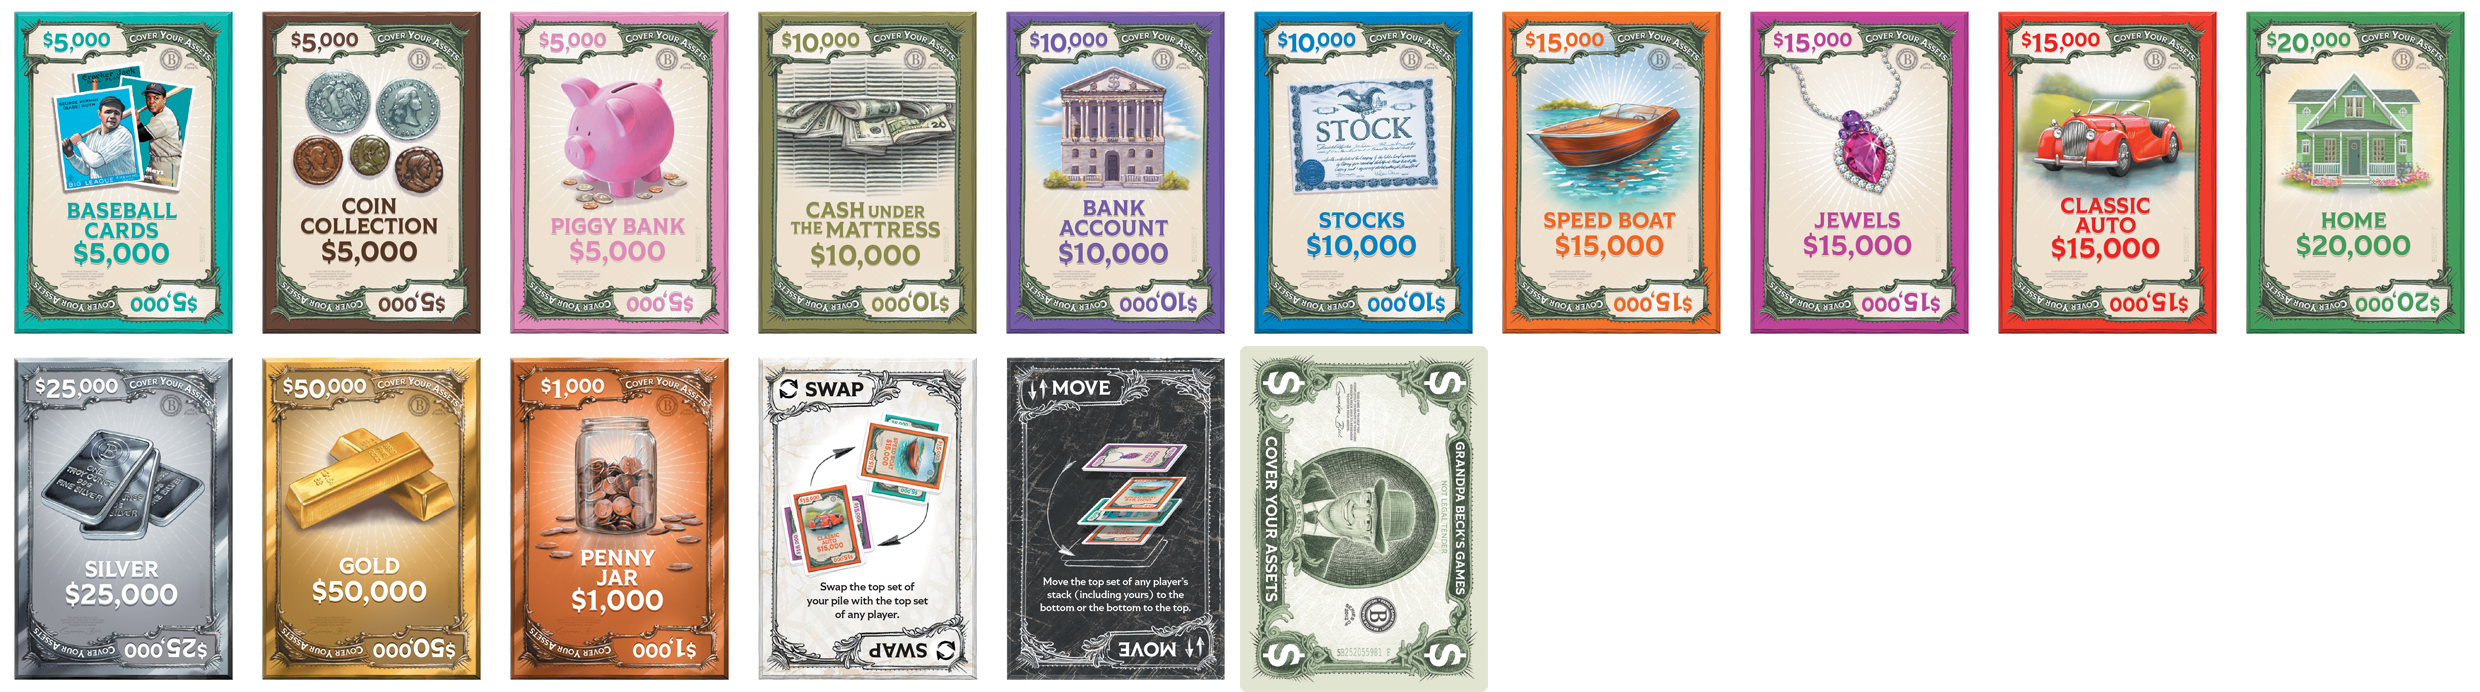
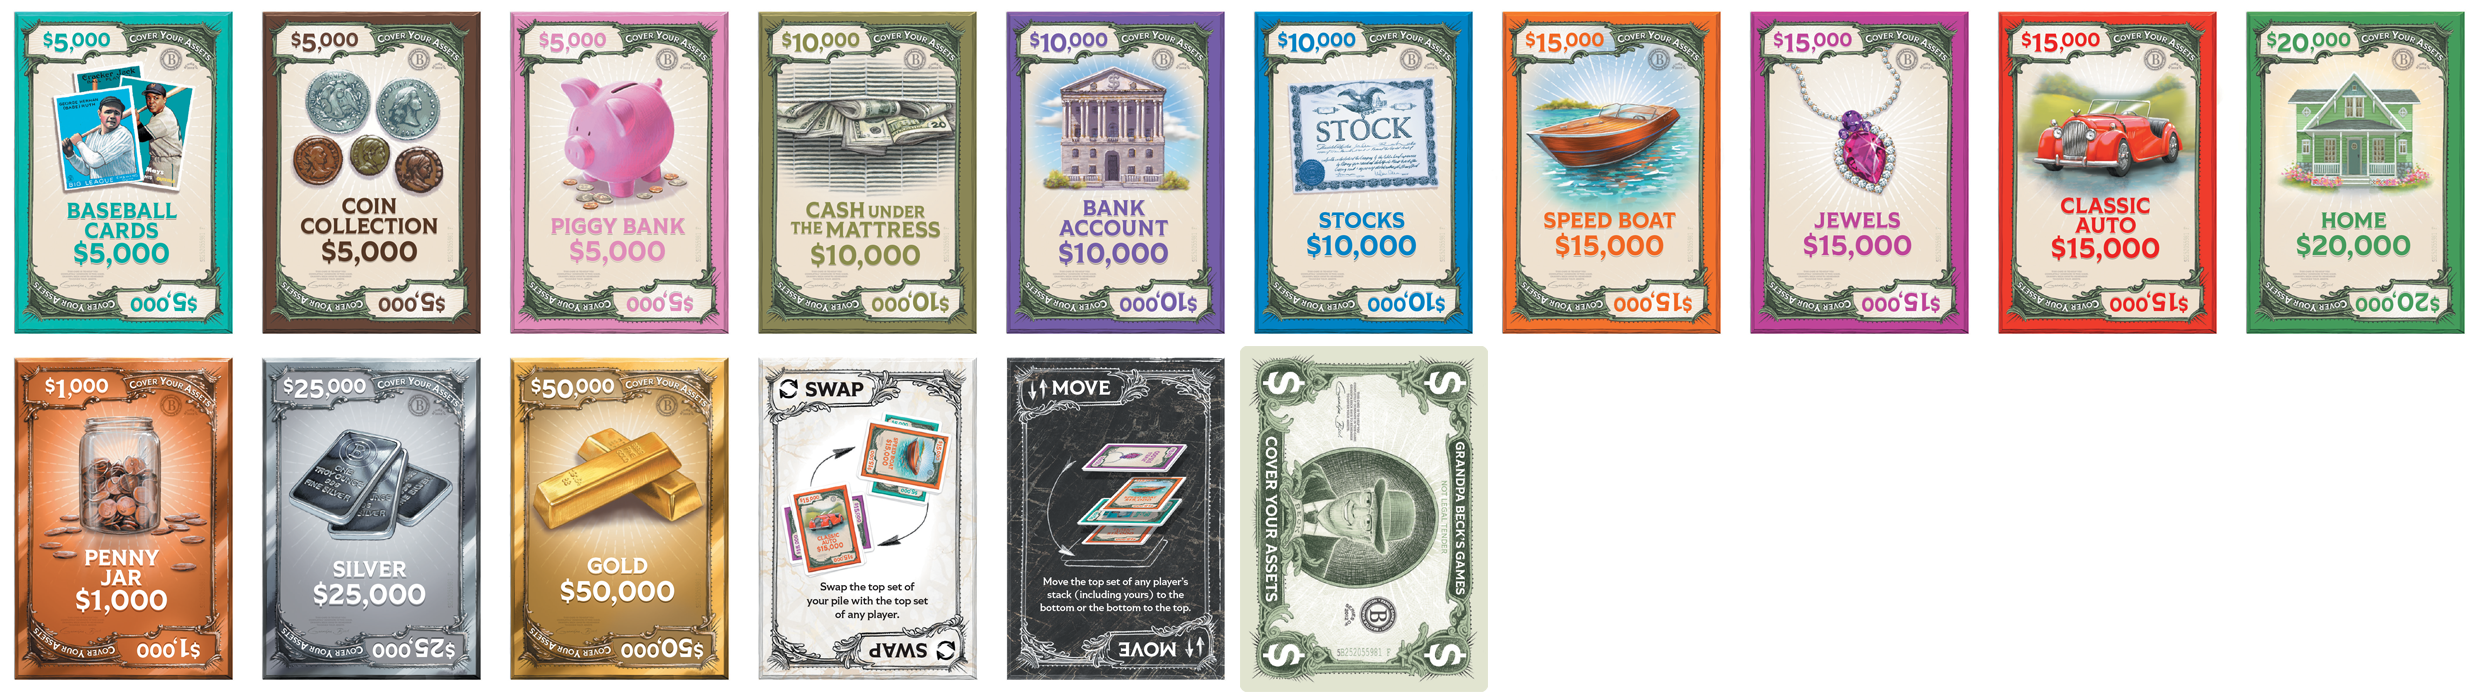
commit

Changed region(s): [[0.0, 0.5159, 0.3105, 1.0]]

diff --git a/modules/js/Game.js b/modules/js/Game.js
@@ -537,12 +537,12 @@ export class Game {
           const id2 = ids[1].split("_");
           const type1 = this.all_cards[id1[3]].type;  
           const type2 = this.all_cards[id2[3]].type;
-          if((type1 <= 10)&&(type2 <= 10)&&(type1 == type2))
+          if((type1 <= 11)&&(type2 <= 11)&&(type1 == type2))
           {
             btn.disabled = false;
           }
 
-          else if ((type1 <= 10 && type2 == 11)||(type1 <= 10 && type2 == 12)||(type2 <= 10 && type1 == 11)||(type2 <= 10 && type1 == 12))
+          else if ((type1 <= 11 && type2 == 12)||(type1 <= 11 && type2 == 13)||(type2 <= 11 && type1 == 12)||(type2 <= 11 && type1 == 13))
           {
             btn.disabled = false;
           }

diff --git a/modules/php/PendingAdvanced.php b/modules/php/PendingAdvanced.php
@@ -42,12 +42,12 @@ trait PendingAdvancedTrait  // ATTENTION
             foreach ($handCards as $card) {
                 $ret["selectablemulti"][] = 'my_cards_item_' . $card['id'];
                 $type = (int) $card['type'];
-                if ($type >= 1 && $type <= 10) {
+                if ($type >= 1 && $type <= 11) {
                     if (!isset($assetCounts[$type])) {
                         $assetCounts[$type] = 0;
                     }
                     $assetCounts[$type]++;
-                } else if ($type === 11 || $type === 12) {
+                } else if ($type === 12 || $type === 13) {
                     $jokerCount++;
                 }
             }
@@ -105,7 +105,7 @@ trait PendingAdvancedTrait  // ATTENTION
 
                                 foreach ($handCards as $card) {
                                     $type = (int) $card['type'];
-                                    if ($type == $type_last_set || $type === 11 || $type === 12) {
+                                    if ($type == $type_last_set || $type == 12 || $type == 13) {
                                         $possible_challenge = 1;
                                     } 
                                 }
@@ -501,7 +501,7 @@ trait PendingAdvancedTrait  // ATTENTION
                     }
 
                 }
-                
+
                 $g->setGameStateValue("attaquant", 0);
                 $g->setGameStateValue("defenseur", 0);
                 $g->setGameStateValue("challenge", 0);
@@ -732,7 +732,7 @@ trait PendingAdvancedTrait  // ATTENTION
 
                         foreach ($handCards as $card) {
                             $type = (int) $card['type'];
-                            if ($type == $type_last_set || $type === 11 || $type === 12) {
+                            if ($type == $type_last_set || $type == 12 || $type == 13) {
                                 if (!in_array($player, $players_challenge))
                                 {
                                     $players_challenge[] = $player;
@@ -820,7 +820,7 @@ trait PendingAdvancedTrait  // ATTENTION
                 $ret["selectable"][] = 'my_cards_item_'.$handCard['id'];
             }
 
-            if($handCard['type'] == 11 || $handCard['type'] == 12)
+            if($handCard['type'] == 12 || $handCard['type'] == 13)
             {
                 $ret["selectable"][] = 'my_cards_item_'.$handCard['id'];
             }
@@ -939,7 +939,7 @@ trait PendingAdvancedTrait  // ATTENTION
                 $ret["selectable"][] = 'my_cards_item_'.$handCard['id'];
             }
 
-            if($handCard['type'] == 11 || $handCard['type'] == 12)
+            if($handCard['type'] == 12 || $handCard['type'] == 13)
             {
                 $ret["selectable"][] = 'my_cards_item_'.$handCard['id'];
             }

diff --git a/modules/php/Pending.php b/modules/php/Pending.php
@@ -136,12 +136,12 @@ class Pending extends Game
             foreach ($handCards as $card) {
                 $ret["selectablemulti"][] = 'my_cards_item_' . $card['id'];
                 $type = (int) $card['type'];
-                if ($type >= 1 && $type <= 10) {
+                if ($type >= 1 && $type <= 11) {
                     if (!isset($assetCounts[$type])) {
                         $assetCounts[$type] = 0;
                     }
                     $assetCounts[$type]++;
-                } else if ($type === 11 || $type === 12) {
+                } else if ($type == 12 || $type == 13) {
                     $jokerCount++;
                 }
             }
@@ -197,7 +197,7 @@ class Pending extends Game
 
                             foreach ($handCards as $card) {
                                 $type = (int) $card['type'];
-                                if ($type == $type_last_set || $type === 11 || $type === 12) {
+                                if ($type == $type_last_set || $type == 12 || $type == 13) {
                                     $possible_challenge = 1;
                                 } 
                             }
@@ -421,7 +421,7 @@ class Pending extends Game
 
                     foreach ($handCards as $card) {
                         $type = (int) $card['type'];
-                        if ($type == $type_last_set || $type === 11 || $type === 12) {
+                        if ($type == $type_last_set || $type == 12 || $type == 13) {
                             if (!in_array($player, $players_challenge))
                             {
                                 $players_challenge[] = $player;
@@ -508,7 +508,7 @@ class Pending extends Game
                 $ret["selectable"][] = 'my_cards_item_'.$handCard['id'];
             }
 
-            if($handCard['type'] == 11 || $handCard['type'] == 12)
+            if($handCard['type'] == 12 || $handCard['type'] == 13)
             {
                 $ret["selectable"][] = 'my_cards_item_'.$handCard['id'];
             }
@@ -622,7 +622,7 @@ class Pending extends Game
                 $ret["selectable"][] = 'my_cards_item_'.$handCard['id'];
             }
 
-            if($handCard['type'] == 11 || $handCard['type'] == 12)
+            if($handCard['type'] == 12 || $handCard['type'] == 13)
             {
                 $ret["selectable"][] = 'my_cards_item_'.$handCard['id'];
             }

diff --git a/modules/php/Game.php b/modules/php/Game.php
@@ -184,8 +184,15 @@ class Game extends \Bga\GameFramework\Table
         $cards[] = ['type' => 8, 'type_arg' => 0, 'nbr' => 9]; //9
         $cards[] = ['type' => 9, 'type_arg' => 0, 'nbr' => 9]; //9
         $cards[] = ['type' => 10, 'type_arg' => 0, 'nbr' => 8]; //8
-        $cards[] = ['type' => 11, 'type_arg' => 0, 'nbr' => 8]; //8
-        $cards[] = ['type' => 12, 'type_arg' => 0, 'nbr' => 4]; //4
+        $cards[] = ['type' => 12, 'type_arg' => 0, 'nbr' => 8]; //8
+        $cards[] = ['type' => 13, 'type_arg' => 0, 'nbr' => 4]; //4
+
+        if($this->getGameStateValue('game_mode') == 2)
+        {
+            $cards[] = ['type' => 11, 'type_arg' => 0, 'nbr' => 2]; //2
+            $cards[] = ['type' => 14, 'type_arg' => 0, 'nbr' => 2]; //2
+            $cards[] = ['type' => 15, 'type_arg' => 0, 'nbr' => 2]; //2
+        }
 
         $this->cards_DB->createCards($cards, 'deck');
         $this->cards_DB->shuffle('deck');
@@ -201,8 +208,13 @@ class Game extends \Bga\GameFramework\Table
         $this->DbQuery("UPDATE cards SET `value` = 15000 WHERE `card_type` = 8");
         $this->DbQuery("UPDATE cards SET `value` = 15000 WHERE `card_type` = 9");
         $this->DbQuery("UPDATE cards SET `value` = 20000 WHERE `card_type` = 10");
-        $this->DbQuery("UPDATE cards SET `value` = 25000 WHERE `card_type` = 11");
-        $this->DbQuery("UPDATE cards SET `value` = 50000 WHERE `card_type` = 12");
+        $this->DbQuery("UPDATE cards SET `value` = 25000 WHERE `card_type` = 12");
+        $this->DbQuery("UPDATE cards SET `value` = 50000 WHERE `card_type` = 13");
+
+        if($this->getGameStateValue('game_mode') == 2)
+        {
+            $this->DbQuery("UPDATE cards SET `value` = 1000 WHERE `card_type` = 11");
+        }
         
         //distribution des cartes
         if($this->getGameStateValue('game_mode') == 1)
